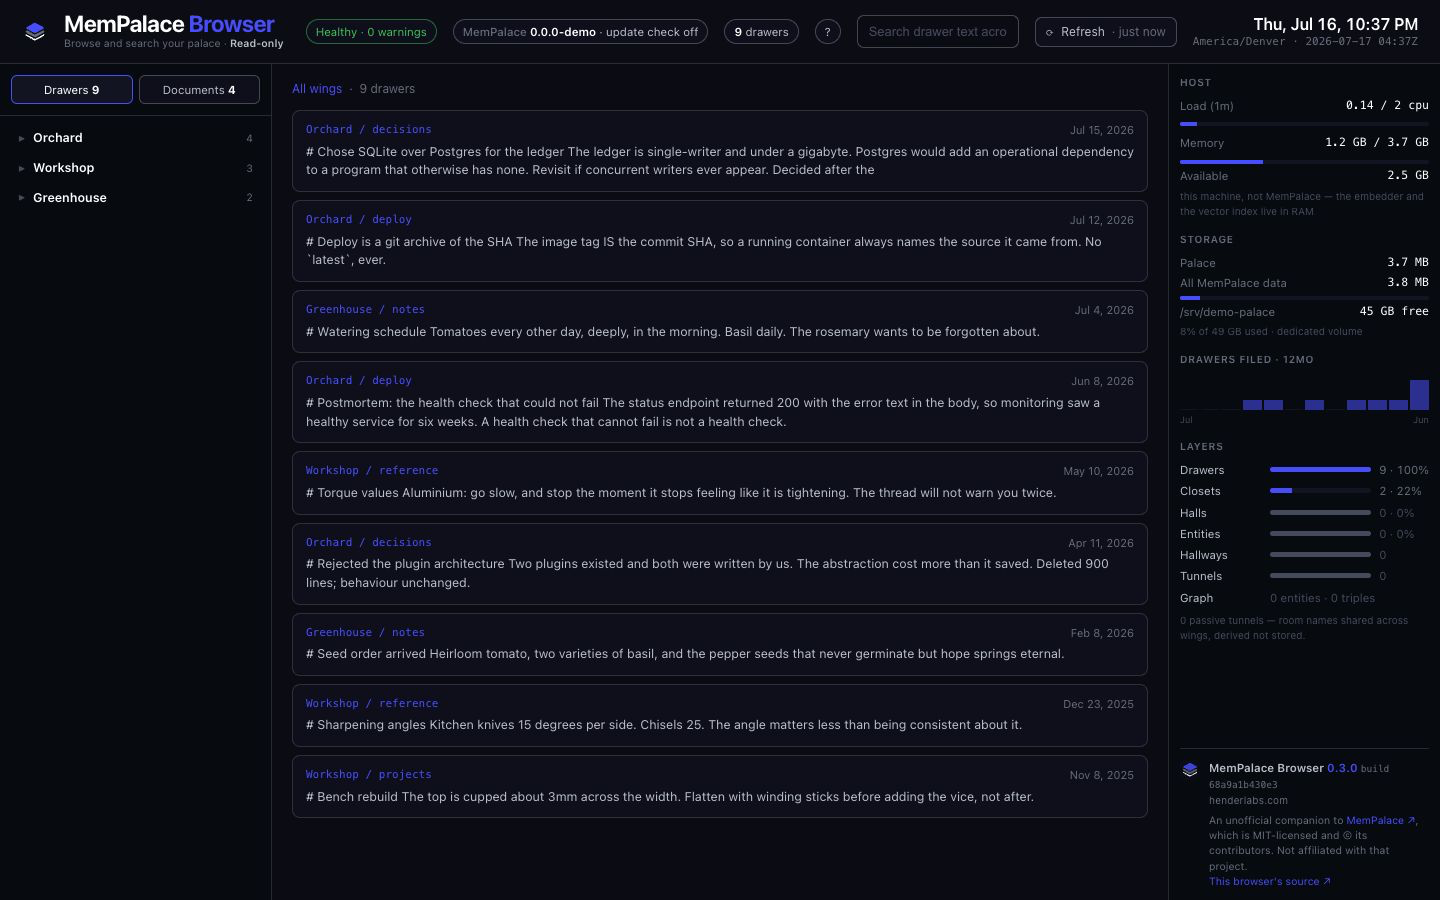
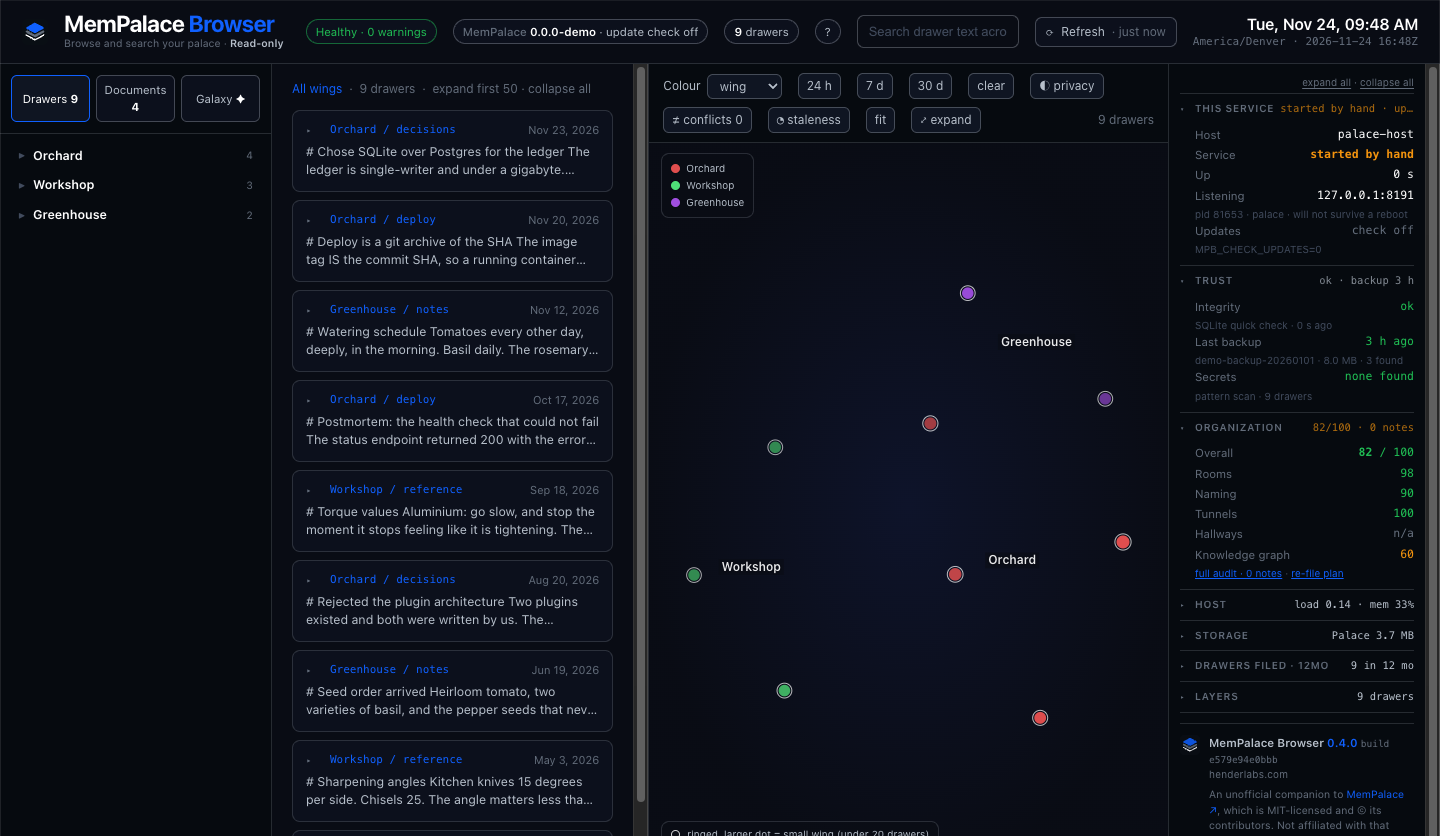
docs: refresh screenshot, outbound-request wording, changelog; pin CI runner for Python 3.9
- assets/demo.png: 0.4.0 demo UI (was the 0.3.0 layout)
- SECURITY.md, PR template: two documented outbound checks (PyPI and GitHub release), not one
- CHANGELOG.md: drop stale "no release yet" and to-do wording
- CONTRIBUTING.md: mention the optional empty-palace test
- ci.yml: ubuntu-24.04 so the Python 3.9 job can run

diff --git a/CHANGELOG.md b/CHANGELOG.md
@@ -1,4 +1,4 @@
-# MemPalace Browser — changelog 
+# MemPalace Browser — changelog
 
 Previous release: 0.3.0.
 
@@ -7,7 +7,7 @@ Previous release: 0.3.0.
 ### Added
 - **Supersede chain.** Select a drawer and the map draws the chain of drawers that replaced it or that it replaced, with dates and a clickable list; the drawer's detail view shows the same chain. Links come from what the drawers themselves say ("supersedes the 2026-10-12 wrap") plus meaning and date, and are marked as inferred.
 - **Re-file planner.** A read-only audit view that suggests, with reasons and confidence, where drawers should be filed (neighbours by meaning, topic words, spelling, small rooms) and exports the plan as JSON for an agent. The browser never applies it.
-- **Update check and updater.** The browser tells you when a newer release exists (Updates row + info finding, no release yet today). It never installs anything: `update.sh`, run by you, verifies a published checksum, keeps a backup, restarts and rolls back on failure. New env: `MPB_RELEASES_URL`, `MPB_UPDATE_CHANNEL`; `MPB_CHECK_UPDATES=0` now turns off both the PyPI and the GitHub check.
+- **Update check and updater.** The browser tells you when a newer release exists (Updates row + info finding). It never installs anything: `update.sh`, run by you, verifies a published checksum, keeps a backup, restarts and rolls back on failure. New env: `MPB_RELEASES_URL`, `MPB_UPDATE_CHANNEL`; `MPB_CHECK_UPDATES=0` now turns off both the PyPI and the GitHub check.
 - **Staleness overlay.** Toolbar toggle that fades drawers not filed or rewritten lately, using the revision log (a wing move does not count as a rewrite). The tooltip shows how many times a drawer's text was rewritten.
 - **Cluster summary.** Hover a dot in a dense one-room pile to see how many drawers the room holds and the span of dates; press L to list the room by date. The map layout is unchanged.
 - **Possible conflicts.** Galaxy toolbar button listing very close drawer pairs that state the same kind of value (date, version, address, count, amount) differently, labelled "possible conflict — values differ"; dated snapshots set aside. Heuristic, never a verdict.
@@ -53,7 +53,7 @@ Previous release: 0.3.0.
 | `MPB_BACKUP_GLOBS` | *(unset)* | Comma-separated globs of your backups; enables the "Last backup" row and backup findings |
 | `MPB_SECRET_SCAN` | `1` | `0` turns the secret-text scan off |
 | `MPB_SECRET_ALLOW` | *(empty)* | Comma-separated drawer ids to stop flagging |
-| `MPB_RESOURCES` | `0` | (existing) host CPU and memory; enabled on the lab box |
+| `MPB_RESOURCES` | `0` | (existing) host CPU and memory; enable with `MPB_RESOURCES=1` |
 
 ### Compatibility
-- Built and verified on MemPalace 3.12.0 (2026-11-22). The integrity probe and the audit are importable package functions but not documented public APIs, so record the tested MemPalace range in the README and pin it in CI.
+- Built and verified on MemPalace 3.12.0 (2026-11-22). The integrity probe and the audit are importable package functions but not documented public APIs, so other MemPalace versions may differ. The README states the tested version.

diff --git a/SECURITY.md b/SECURITY.md
@@ -41,9 +41,10 @@ whole network.** That is documented, not a vulnerability. Do not report it as on
 `PATCH`, or `DELETE` handler exists. A path that writes to or mutates a palace
 *is* a bug, and a serious one — please report it.
 
-**The one outbound request** is a version check against a fixed `pypi.org` URL.
-It sends no palace data. Disable it with `MPB_CHECK_UPDATES=0`. Any other
-outbound traffic is a bug — please report it.
+**There are two outbound requests**, both version checks against fixed URLs: `pypi.org`
+(is a newer MemPalace out?) and this repository's latest GitHub release (is a newer
+MemPalace Browser out?). Neither sends palace data. Disable both with
+`MPB_CHECK_UPDATES=0`. Any other outbound traffic is a bug — please report it.
 
 ## In scope
 
@@ -51,7 +52,7 @@ outbound traffic is a bug — please report it.
 - Host allow-list bypasses
 - XSS via drawer content, metadata, or the `Host` header
 - Any write path to the palace
-- Any outbound request other than the documented PyPI check
+- Any outbound request other than the two documented version checks (PyPI and the GitHub release check)
 
 ## Not in scope
 

diff --git a/CONTRIBUTING.md b/CONTRIBUTING.md
@@ -32,7 +32,8 @@ python3 -m unittest discover -s tests -v
 ```
 
 They run the real server in demo mode, so they need no MemPalace, no vector
-database, and no palace. If you add a test that needs any of those, that is a
+database, and no palace. (One extra test runs only if `mempalace` is importable:
+it checks that an empty palace path is refused.) If you add a test that needs any of those, that is a
 signal something has drifted.
 
 Please add a test for anything touching the `Host` allow-list, HTML escaping, or

diff --git a/.github/pull_request_template.md b/.github/pull_request_template.md
@@ -14,5 +14,5 @@
 
 - [ ] Adds no dependency, build step, or `requirements.txt`
 - [ ] Adds no write path to the palace (`create=False` everywhere)
-- [ ] Adds no outbound request beyond the documented PyPI version check
+- [ ] Adds no outbound request beyond the two documented version checks (PyPI and the GitHub release check)
 - [ ] Touches the `Host` allow-list / escaping / read-only guarantee? → a test covers it
